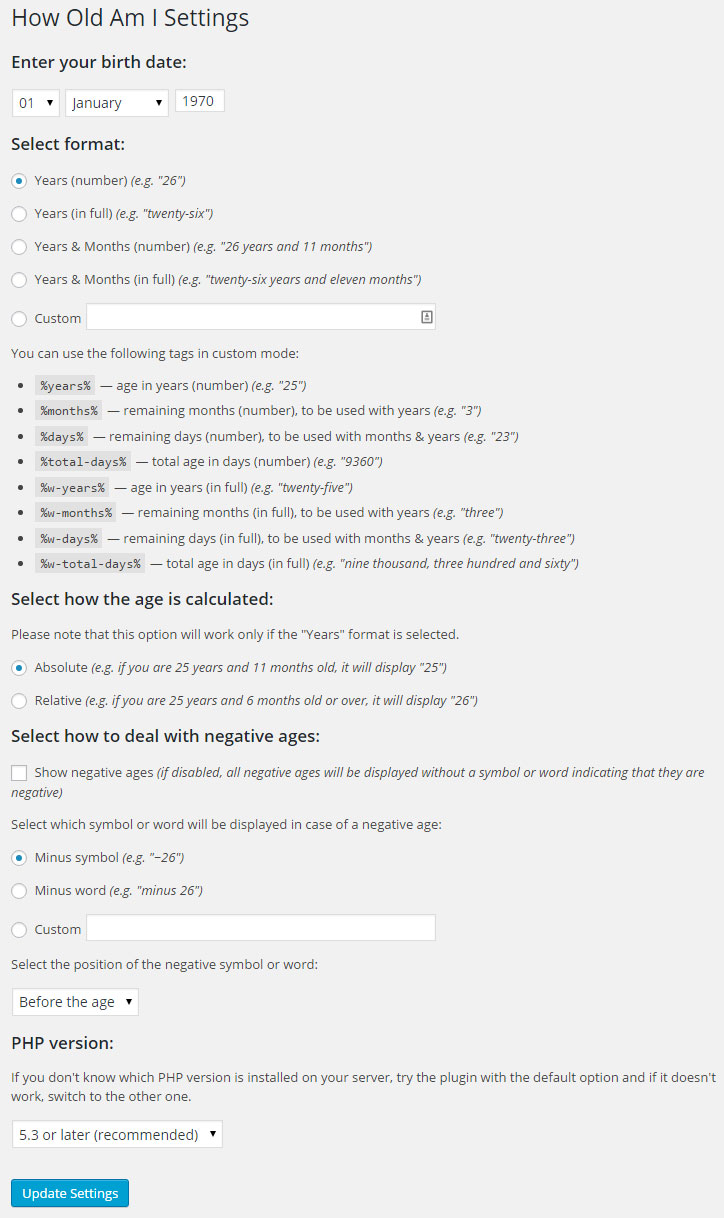
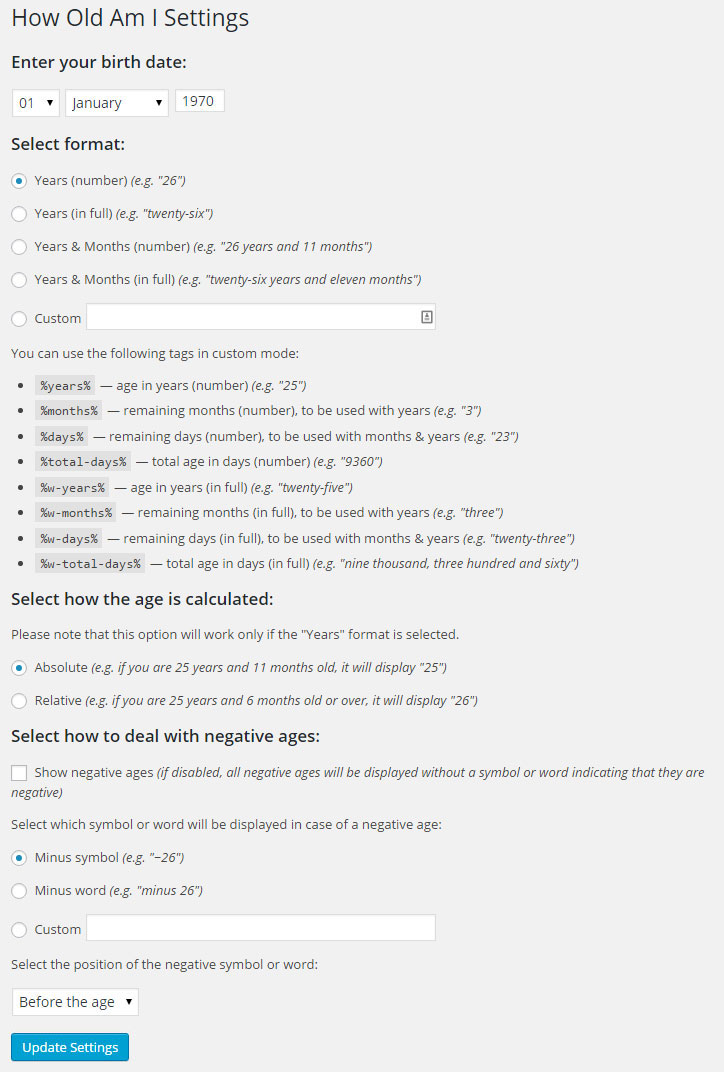
Removing support for PHP versions < 5.3

Changed region(s): [[0.0, 0.0, 0.9724, 1.0], [0.5773, 0.7696, 0.6077, 0.8004]]

diff --git a/how-old-am-i.php b/how-old-am-i.php
@@ -37,7 +37,6 @@ if (!class_exists("howOldAmI"))
                                   'calculationType' => 'absolute',
                                   'format' => 'year',
                                   'custom-format' => '',
-                                  'php' => 'latest',
                                   'negativeAgeEnabled' => false,
                                   'negativeAgeDisplay' => 'symbol',
                                   'negativeAgeCustomDisplay' => '',
@@ -65,79 +64,42 @@ if (!class_exists("howOldAmI"))
 
             $returnValue = '';
 
-            if($options['php']==='latest')
+            switch($bday)
             {
-                switch($bday)
-                {
-                    case false:
-                        $birthDate = new DateTime();
-                        $birthDate->setDate($options['birthYear'], $options['birthMonth'], $options['birthDay']);
-                        $birthDate->setTime(0, 0);
-                        break;
-                    case 'post':
-                        $birthDate = new DateTime();
-                        $birthDate->setDate(get_the_date('Y'),get_the_date('m'),get_the_date('d'));
-                        $birthDate->setTime(get_the_time('H'), get_the_time('i'));
-                        break;
-                    default:
-                        $birthDate = new DateTime($bday . ' 00:00:00');
-                }
-
-                switch($on)
-                {
-                    case false:
-                        $now = new DateTime("now");
-                        break;
-                    case 'post':
-                        $now = new DateTime();
-                        $now->setDate(get_the_date('Y'),get_the_date('m'),get_the_date('d'));
-                        $now->setTime(get_the_time('H'), get_the_time('i'));
-                        break;
-                    default:
-                        $now = new DateTime($on . ' 00:00:00');
-                }
-
-                $difference = $birthDate->diff($now);
-
-                $yearsOld = $difference->y;
-                $monthsOld = $difference->m;
-                $daysOld = $difference->d;
-                $totalDaysOld = $difference->days;
+                case false:
+                    $birthDate = new DateTime();
+                    $birthDate->setDate($options['birthYear'], $options['birthMonth'], $options['birthDay']);
+                    $birthDate->setTime(0, 0);
+                    break;
+                case 'post':
+                    $birthDate = new DateTime();
+                    $birthDate->setDate(get_the_date('Y'),get_the_date('m'),get_the_date('d'));
+                    $birthDate->setTime(get_the_time('H'), get_the_time('i'));
+                    break;
+                default:
+                    $birthDate = new DateTime($bday . ' 00:00:00');
             }
-            else
+
+            switch($on)
             {
-                require_once('_date_diff.php');
-                switch($bday)
-                {
-                    case false:
-                        $birthDate = strtotime($options['birthYear'] . '-' . $options['birthMonth'] . '-' . $options['birthDay']);
-                        break;
-                    case 'post':
-                        $birthDate = get_the_time('U');
-                        break;
-                    default:
-                        $birthDate = strtotime($bday);
-                }
-
-                switch($on)
-                {
-                    case false:
-                        $now = time();
-                        break;
-                    case 'post':
-                        $now = get_the_time('U');
-                        break;
-                    default:
-                        $now = strtotime($on);
-                }
-
-                $difference = _date_diff($birthDate, $now);
-
-                $yearsOld = $difference['y'];
-                $monthsOld = $difference['m'];
-                $daysOld = $difference['d'];
-                $totalDaysOld = $difference['days'];
+                case false:
+                    $now = new DateTime("now");
+                    break;
+                case 'post':
+                    $now = new DateTime();
+                    $now->setDate(get_the_date('Y'),get_the_date('m'),get_the_date('d'));
+                    $now->setTime(get_the_time('H'), get_the_time('i'));
+                    break;
+                default:
+                    $now = new DateTime($on . ' 00:00:00');
             }
+
+            $difference = $birthDate->diff($now);
+
+            $yearsOld = $difference->y;
+            $monthsOld = $difference->m;
+            $daysOld = $difference->d;
+            $totalDaysOld = $difference->days;
 
             if($options['format']==='year' || $options['format']==='year-words')
             {
@@ -239,11 +201,6 @@ if (!class_exists("howOldAmI"))
                 if (isset($_POST['custom-format']))
                 {
                     $options['custom-format'] = $_POST['custom-format'];
-                }
-
-                if (isset($_POST['php']))
-                {
-                    $options['php'] = $_POST['php'];
                 }
 
                 if (empty($_POST['negative-display-status']))
@@ -360,12 +317,6 @@ if (!class_exists("howOldAmI"))
                     <select name="negative-display-position">
                         <option value="0" <?php if ($options['negativeAgePosition'] == "0") { _e('selected="selected"', "HowOldAmI"); }?>>Before the age</option>
                         <option value="1" <?php if ($options['negativeAgePosition'] == "1") { _e('selected="selected"', "HowOldAmI"); }?>>After the age</option>
-                    </select>
-                    <h3>PHP version:</h3>
-                    <p>If you don't know which PHP version is installed on your server, try the plugin with the default option and if it doesn't work, switch to the other one.</p>
-                    <select name="php">
-                        <option value="latest" <?php if ($options['php'] == "latest") { _e('selected="selected"', "HowOldAmI"); }?>>5.3 or later (recommended)</option>
-                        <option value="old" <?php if ($options['php'] == "old") { _e('selected="selected"', "HowOldAmI"); }?>>Older than 5.3</option>
                     </select>
                     <p class="submit">
                         <input type="submit" name="updateHowOldAmI" value="<?php _e('Update Settings', 'HowOldAmI') ?>" class="button-primary" />
